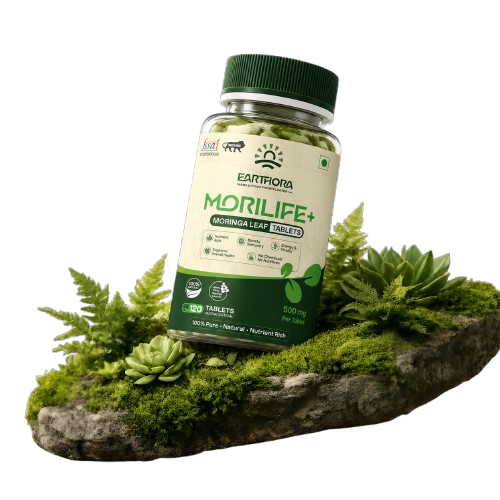
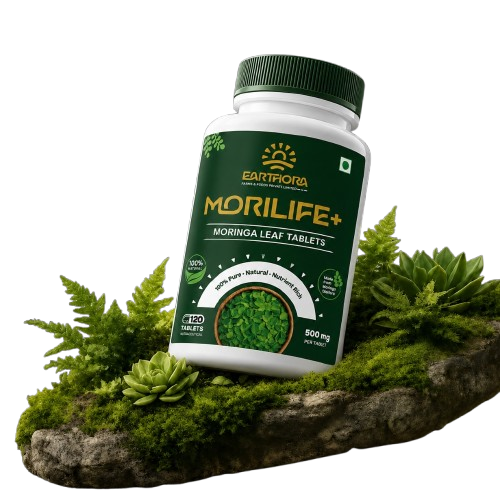
billing

diff --git a/supabase/functions/send-invoice/index.ts b/supabase/functions/send-invoice/index.ts
@@ -1,0 +1,348 @@
+import { createClient } from "https://esm.sh/@supabase/supabase-js@2";
+
+declare const Deno: {
+  env: { get(key: string): string | undefined };
+  serve(handler: (req: Request) => Response | Promise<Response>): void;
+};
+
+const corsHeaders = {
+  "Access-Control-Allow-Origin": "*",
+  "Access-Control-Allow-Methods": "GET, POST, PUT, DELETE, OPTIONS",
+  "Access-Control-Allow-Headers":
+    "authorization, x-client-info, apikey, content-type, x-admin-password",
+};
+
+function numberToWords(num: number): string {
+  const a = [
+    "", "One", "Two", "Three", "Four", "Five", "Six", "Seven", "Eight", "Nine", "Ten",
+    "Eleven", "Twelve", "Thirteen", "Fourteen", "Fifteen", "Sixteen", "Seventeen", "Eighteen", "Nineteen"
+  ];
+  const b = ["", "", "Twenty", "Thirty", "Forty", "Fifty", "Sixty", "Seventy", "Eighty", "Ninety"];
+
+  const value = Math.round(num);
+  if (value === 0) return "Zero";
+
+  function chunk(n: number): string {
+    if (n < 20) return a[n];
+    if (n < 100) return b[Math.floor(n / 10)] + (n % 10 ? " " + a[n % 10] : "");
+    return a[Math.floor(n / 100)] + " Hundred" + (n % 100 ? " and " + chunk(n % 100) : "");
+  }
+
+  const crores = Math.floor(value / 10000000);
+  let rem = value % 10000000;
+  const lakhs = Math.floor(rem / 100000);
+  rem %= 100000;
+  const thousands = Math.floor(rem / 1000);
+  rem %= 1000;
+  const hundreds = Math.floor(rem / 100);
+  const remaining = rem % 100;
+
+  let str = "";
+  if (crores) str += chunk(crores) + " Crore ";
+  if (lakhs) str += chunk(lakhs) + " Lakh ";
+  if (thousands) str += chunk(thousands) + " Thousand ";
+  if (hundreds) str += chunk(hundreds) + " Hundred ";
+  if (remaining) {
+    if (str !== "") str += "and ";
+    str += chunk(remaining);
+  }
+  return str.trim() + " Rupees Only";
+}
+
+Deno.serve(async (req: Request) => {
+  if (req.method === "OPTIONS") {
+    return new Response("ok", { headers: corsHeaders });
+  }
+
+  try {
+    const { orderId } = (await req.json()) as { orderId?: string };
+
+    if (!orderId) {
+      return new Response(
+        JSON.stringify({ ok: false, error: "Missing required field: orderId." }),
+        { status: 400, headers: { ...corsHeaders, "Content-Type": "application/json" } }
+      );
+    }
+
+    const resendApiKey = Deno.env.get("RESEND_API_KEY");
+    const supabaseUrl = Deno.env.get("SUPABASE_URL")!;
+    const supabaseServiceKey = Deno.env.get("SUPABASE_SERVICE_ROLE_KEY")!;
+
+    if (!resendApiKey) {
+      console.warn("[send-invoice] RESEND_API_KEY secret is not configured in Supabase secrets.");
+      return new Response(
+        JSON.stringify({ ok: true, warning: "RESEND_API_KEY secret not configured." }),
+        { status: 200, headers: { ...corsHeaders, "Content-Type": "application/json" } }
+      );
+    }
+
+    const supabase = createClient(supabaseUrl, supabaseServiceKey);
+
+    // 1. Fetch Order Details
+    const { data: order, error: orderErr } = await supabase
+      .from("orders")
+      .select("*")
+      .eq("id", orderId)
+      .single();
+
+    if (orderErr || !order) {
+      console.error("[send-invoice] Order query error:", orderErr);
+      return new Response(
+        JSON.stringify({ ok: false, error: `Order not found: ${orderId}` }),
+        { status: 404, headers: { ...corsHeaders, "Content-Type": "application/json" } }
+      );
+    }
+
+    // 2. Fetch Order Items with Product details
+    const { data: orderItems, error: itemsErr } = await supabase
+      .from("order_items")
+      .select("*, products(*)")
+      .eq("order_id", orderId);
+
+    if (itemsErr || !orderItems || orderItems.length === 0) {
+      console.error("[send-invoice] Order Items query error:", itemsErr);
+      return new Response(
+        JSON.stringify({ ok: false, error: "Order items not found." }),
+        { status: 404, headers: { ...corsHeaders, "Content-Type": "application/json" } }
+      );
+    }
+
+    // 3. Fetch Payment details
+    const { data: payment } = await supabase
+      .from("Payments")
+      .select("*")
+      .eq("payment_order_id", orderId)
+      .single();
+
+    // Extract address details
+    const shipping = order.shipping_address || {};
+    const recipientEmail = shipping.email || order.user_id;
+    const recipientName = shipping.name || "Customer";
+    const recipientPhone = shipping.phone || "";
+    const fullAddress = `${shipping.address || ""}, ${shipping.city || ""}, ${shipping.state || ""} - ${shipping.zip || ""}, ${shipping.country || ""}`;
+
+    const invoiceDate = new Date(order.created_at).toLocaleDateString("en-IN", {
+      day: "2-digit",
+      month: "2-digit",
+      year: "numeric",
+    });
+
+    const paymentMethod = payment?.payment_method || "Online Payment";
+    const transactionId = payment?.payment_transaction_id || "N/A";
+    const totalAmount = Number(order.total_amount);
+
+    // Calculate line items for GST standard layout (5% Moringa Tax Rate)
+    const HSN_CODE = "12119029";
+    let subtotalTaxable = 0;
+    let totalCgst = 0;
+    let totalSgst = 0;
+
+    const itemsHtmlList = orderItems.map((item: any, idx: number) => {
+      const productName = item.products?.name || "Organic Moringa Supplement";
+      const quantity = Number(item.quantity);
+      const lineTotal = Number(item.total_price);
+      
+      const unitPrice = Number(item.unit_price);
+      const taxableUnitPrice = unitPrice / 1.05;
+      const taxableLineTotal = lineTotal / 1.05;
+      const lineGst = lineTotal - taxableLineTotal;
+      const lineCgst = lineGst / 2;
+      const lineSgst = lineGst / 2;
+
+      subtotalTaxable += taxableLineTotal;
+      totalCgst += lineCgst;
+      totalSgst += lineSgst;
+
+      return `
+        <tr style="border-bottom: 1px solid #e8e6df;">
+          <td style="padding: 12px 8px; font-size: 13px; text-align: center; color: #444;">${idx + 1}</td>
+          <td style="padding: 12px 8px; font-size: 13px; color: #222; font-weight: 500;">
+            ${productName}
+          </td>
+          <td style="padding: 12px 8px; font-size: 13px; text-align: center; color: #444;">${HSN_CODE}</td>
+          <td style="padding: 12px 8px; font-size: 13px; text-align: center; color: #222; font-weight: 600;">${quantity}</td>
+          <td style="padding: 12px 8px; font-size: 13px; text-align: right; color: #444;">₹${taxableUnitPrice.toFixed(2)}</td>
+          <td style="padding: 12px 8px; font-size: 13px; text-align: right; color: #444;">₹${taxableLineTotal.toFixed(2)}</td>
+          <td style="padding: 12px 8px; font-size: 12px; text-align: center; color: #666;">
+            2.5% CGST (₹${lineCgst.toFixed(2)})<br/>
+            2.5% SGST (₹${lineSgst.toFixed(2)})
+          </td>
+          <td style="padding: 12px 8px; font-size: 13px; text-align: right; color: #222; font-weight: 600;">₹${lineTotal.toFixed(2)}</td>
+        </tr>
+      `;
+    }).join("");
+
+    const grandTotalWords = numberToWords(totalAmount);
+
+    const emailHtml = `
+      <div style="font-family: Arial, sans-serif; max-width: 750px; margin: 0 auto; padding: 24px; background: #FAF9F5; color: #15271D; border-radius: 24px; border: 1px solid #CFDCD3;">
+        
+        <!-- Header / Banner -->
+        <table style="width: 100%; border-collapse: collapse; margin-bottom: 24px;">
+          <tr>
+            <td>
+              <h1 style="margin: 0; font-size: 26px; color: #26593B; letter-spacing: -0.5px; font-family: Georgia, serif;">Earthora Farms</h1>
+              <p style="margin: 4px 0 0; font-size: 12px; color: #DC9950; font-weight: bold; letter-spacing: 1px; text-transform: uppercase;">Pure. Potent. Alive.</p>
+            </td>
+            <td style="text-align: right;">
+              <span style="background: #26593B; color: #FAF8F3; padding: 6px 16px; border-radius: 20px; font-size: 11px; font-weight: bold; text-transform: uppercase; letter-spacing: 0.5px;">Tax Invoice</span>
+              <p style="margin: 8px 0 0; font-size: 13px; color: #26593B; font-weight: 600;">Invoice #: INV-${orderId.substring(0, 8).toUpperCase()}</p>
+            </td>
+          </tr>
+        </table>
+
+        <!-- Invoice Meta Details -->
+        <table style="width: 100%; border-collapse: collapse; background: #ffffff; border-radius: 16px; border: 1px solid #E1E8E3; margin-bottom: 24px; padding: 16px;">
+          <tr>
+            <td style="padding: 16px; width: 50%; vertical-align: top; border-right: 1px solid #E1E8E3;">
+              <h3 style="margin: 0 0 8px; font-size: 12px; text-transform: uppercase; color: #888; letter-spacing: 0.5px;">Order Information</h3>
+              <p style="margin: 0 0 6px; font-size: 13px; color: #222;"><strong>Order ID:</strong> ${orderId}</p>
+              <p style="margin: 0 0 6px; font-size: 13px; color: #222;"><strong>Date:</strong> ${invoiceDate}</p>
+              <p style="margin: 0 0 6px; font-size: 13px; color: #222;"><strong>Payment Method:</strong> ${paymentMethod}</p>
+              <p style="margin: 0; font-size: 13px; color: #222;"><strong>Transaction ID:</strong> <span style="font-family: monospace; font-size: 12px; color: #555;">${transactionId}</span></p>
+            </td>
+            <td style="padding: 16px; width: 50%; vertical-align: top;">
+              <h3 style="margin: 0 0 8px; font-size: 12px; text-transform: uppercase; color: #888; letter-spacing: 0.5px;">Payment Status</h3>
+              <div style="display: inline-block; background: #DCE7C5; color: #26593B; font-weight: bold; padding: 6px 14px; border-radius: 12px; font-size: 14px; margin-bottom: 8px; border: 1px solid #CFDCD3;">
+                ✓ PAID
+              </div>
+              <p style="margin: 0; font-size: 12px; color: #666; line-height: 1.4;">Thank you for your payment. Your order is confirmed and is being prepared for shipment from our farm.</p>
+            </td>
+          </tr>
+        </table>
+
+        <!-- Party Details -->
+        <table style="width: 100%; border-collapse: collapse; background: #ffffff; border-radius: 16px; border: 1px solid #E1E8E3; margin-bottom: 24px;">
+          <tr>
+            <!-- Supplier / From -->
+            <td style="padding: 16px; width: 50%; vertical-align: top; border-right: 1px solid #E1E8E3;">
+              <h3 style="margin: 0 0 10px; font-size: 12px; text-transform: uppercase; color: #888; letter-spacing: 0.5px;">Billed From (Supplier)</h3>
+              <p style="margin: 0 0 4px; font-size: 14px; font-weight: bold; color: #1b4332;">Earthora Farms Private Limited</p>
+              <p style="margin: 0 0 8px; font-size: 12px; color: #555; line-height: 1.4;">
+                12, Green Meadow Estate,<br/>
+                Botanical Garden Road, Ooty,<br/>
+                Tamil Nadu - 643001, India
+              </p>
+              <p style="margin: 0 0 4px; font-size: 12px; color: #444;"><strong>GSTIN:</strong> 33AAACE1234F1Z5 (Fictional)</p>
+              <p style="margin: 0; font-size: 12px; color: #444;"><strong>FSSAI Lic No:</strong> 12423999000123</p>
+            </td>
+            <!-- Customer / To -->
+            <td style="padding: 16px; width: 50%; vertical-align: top;">
+              <h3 style="margin: 0 0 10px; font-size: 12px; text-transform: uppercase; color: #888; letter-spacing: 0.5px;">Billed & Shipped To</h3>
+              <p style="margin: 0 0 4px; font-size: 14px; font-weight: bold; color: #222;">${recipientName}</p>
+              <p style="margin: 0 0 8px; font-size: 12px; color: #555; line-height: 1.4; white-space: pre-wrap;">${fullAddress}</p>
+              <p style="margin: 0 0 4px; font-size: 12px; color: #444;"><strong>Email:</strong> ${recipientEmail}</p>
+              <p style="margin: 0; font-size: 12px; color: #444;"><strong>Phone:</strong> ${recipientPhone}</p>
+            </td>
+          </tr>
+        </table>
+
+        <!-- Itemized Table -->
+        <table style="width: 100%; border-collapse: collapse; background: #ffffff; border-radius: 16px; border: 1px solid #E1E8E3; overflow: hidden; margin-bottom: 24px;">
+          <thead>
+            <tr style="background: #26593B; color: #FAF8F3;">
+              <th style="padding: 12px 8px; font-size: 11px; text-transform: uppercase; text-align: center; font-weight: bold; width: 40px;">S.No</th>
+              <th style="padding: 12px 8px; font-size: 11px; text-transform: uppercase; text-align: left; font-weight: bold;">Description of Goods</th>
+              <th style="padding: 12px 8px; font-size: 11px; text-transform: uppercase; text-align: center; font-weight: bold; width: 80px;">HSN</th>
+              <th style="padding: 12px 8px; font-size: 11px; text-transform: uppercase; text-align: center; font-weight: bold; width: 50px;">Qty</th>
+              <th style="padding: 12px 8px; font-size: 11px; text-transform: uppercase; text-align: right; font-weight: bold; width: 90px;">Unit Price</th>
+              <th style="padding: 12px 8px; font-size: 11px; text-transform: uppercase; text-align: right; font-weight: bold; width: 100px;">Taxable Value</th>
+              <th style="padding: 12px 8px; font-size: 11px; text-transform: uppercase; text-align: center; font-weight: bold; width: 130px;">Taxes</th>
+              <th style="padding: 12px 8px; font-size: 11px; text-transform: uppercase; text-align: right; font-weight: bold; width: 100px;">Total</th>
+            </tr>
+          </thead>
+          <tbody>
+            ${itemsHtmlList}
+          </tbody>
+        </table>
+
+        <!-- Calculations Summary -->
+        <table style="width: 100%; border-collapse: collapse; margin-bottom: 24px;">
+          <tr>
+            <!-- Left Empty Column / Terms -->
+            <td style="width: 55%; vertical-align: top; padding: 12px;">
+              <h4 style="margin: 0 0 6px; font-size: 12px; color: #26593B; text-transform: uppercase;">Amount in Words</h4>
+              <p style="margin: 0 0 16px; font-size: 13px; font-style: italic; color: #555;">${grandTotalWords}</p>
+              
+              <div style="border-top: 1px solid #E1E8E3; padding-top: 12px;">
+                <p style="margin: 0; font-size: 10px; color: #888; line-height: 1.4;">
+                  <strong>Terms & Declarations:</strong> We declare that this invoice shows the actual price of the goods described and that all particulars are true and correct. Goods once sold cannot be returned unless damaged in transit.
+                </p>
+              </div>
+            </td>
+            <!-- Right calculations column -->
+            <td style="width: 45%; vertical-align: top; padding: 12px; background: #ffffff; border-radius: 16px; border: 1px solid #E1E8E3;">
+              <table style="width: 100%; border-collapse: collapse;">
+                <tr>
+                  <td style="padding: 6px 0; font-size: 13px; color: #555;">Total Taxable Value</td>
+                  <td style="padding: 6px 0; font-size: 13px; text-align: right; color: #222;">₹${subtotalTaxable.toFixed(2)}</td>
+                </tr>
+                <tr>
+                  <td style="padding: 6px 0; font-size: 13px; color: #555;">CGST Total (2.5%)</td>
+                  <td style="padding: 6px 0; font-size: 13px; text-align: right; color: #222;">₹${totalCgst.toFixed(2)}</td>
+                </tr>
+                <tr>
+                  <td style="padding: 6px 0; font-size: 13px; color: #555;">SGST Total (2.5%)</td>
+                  <td style="padding: 6px 0; font-size: 13px; text-align: right; color: #222; border-bottom: 1px solid #E1E8E3;">₹${totalSgst.toFixed(2)}</td>
+                </tr>
+                <tr>
+                  <td style="padding: 10px 0 0; font-size: 16px; font-weight: bold; color: #26593B;">Grand Total</td>
+                  <td style="padding: 10px 0 0; font-size: 16px; font-weight: bold; text-align: right; color: #26593B;">₹${totalAmount.toFixed(2)}</td>
+                </tr>
+              </table>
+            </td>
+          </tr>
+        </table>
+
+        <!-- Signatory Sign-off Footer -->
+        <table style="width: 100%; border-collapse: collapse; margin-top: 16px; border-top: 1px dashed #CFDCD3; padding-top: 16px;">
+          <tr>
+            <td>
+              <p style="margin: 0; font-size: 11px; color: #888;">For customer support queries, email <a href="mailto:support@earthorafarms.com" style="color: #26593B; text-decoration: none;">support@earthorafarms.com</a></p>
+            </td>
+            <td style="text-align: right; vertical-align: bottom;">
+              <p style="margin: 0 0 4px; font-size: 12px; font-weight: bold; color: #26593B;">Earthora Farms Pvt Ltd</p>
+              <p style="margin: 0; font-size: 11px; color: #888; font-style: italic;">Authorized Signatory</p>
+            </td>
+          </tr>
+        </table>
+
+      </div>
+    `;
+
+    // 4. Send Email via Resend
+    const resendRes = await fetch("https://api.resend.com/emails", {
+      method: "POST",
+      headers: {
+        Authorization: `Bearer ${resendApiKey}`,
+        "Content-Type": "application/json",
+      },
+      body: JSON.stringify({
+        from: "Earthora Farms <support@earthorafarms.com>",
+        to: [recipientEmail],
+        subject: `Your Tax Invoice & Bill of Supply for Order #${orderId.substring(0, 8).toUpperCase()}`,
+        html: emailHtml,
+      }),
+    });
+
+    if (!resendRes.ok) {
+      const errText = await resendRes.text();
+      console.error("[send-invoice] Resend API Error:", errText);
+      return new Response(
+        JSON.stringify({ ok: false, error: `Resend API Error: ${errText}` }),
+        { status: 500, headers: { ...corsHeaders, "Content-Type": "application/json" } }
+      );
+    }
+
+    return new Response(
+      JSON.stringify({ ok: true }),
+      { status: 200, headers: { ...corsHeaders, "Content-Type": "application/json" } }
+    );
+  } catch (err: any) {
+    console.error("[send-invoice] Uncaught Exception:", err);
+    return new Response(
+      JSON.stringify({ ok: false, error: err.message || "An unexpected error occurred." }),
+      { status: 500, headers: { ...corsHeaders, "Content-Type": "application/json" } }
+    );
+  }
+});

diff --git a/src/pages/checkout.tsx b/src/pages/checkout.tsx
@@ -170,11 +170,12 @@ export default function Checkout() {
           setCity((data.user_city as string) || "");
           setState((data.user_state as string) || "");
           setPostalCode((data.user_zip as string) || "");
-          setCountry((data.user_country as string) || "");
+          setCountry((data.user_country as string) || "India");
         } else {
           setEmail(emailAddr || "");
           setName(user?.user_metadata?.name || user?.user_metadata?.full_name || "");
           setPhone(user?.phone || "");
+          setCountry("India");
         }
       });
   }, [user, authLoading]);
@@ -382,6 +383,16 @@ export default function Checkout() {
             const txnId = response.razorpay_payment_id;
             const orderReferenceId = await saveOrderToDatabase("completed", txnId);
             setOrderSuccess({ order_number: orderReferenceId, method: "razorpay", total: totalAmount });
+
+            // Trigger invoice email sending asynchronously
+            try {
+              supabase.functions.invoke("send-invoice", {
+                body: { orderId: orderReferenceId },
+              });
+            } catch (emailErr) {
+              console.error("Error triggering invoice email:", emailErr);
+            }
+
             clearCart();
             toast({ title: "Payment successful!", description: `Order ID: ${orderReferenceId}` });
             resolve();

diff --git a/src/components/sections/Hero.tsx b/src/components/sections/Hero.tsx
@@ -1,7 +1,7 @@
 import { ArrowUpRight } from "lucide-react";
 import { Link } from "wouter";
 import terraHeroBg from "@assets/generated_images/terra_hero_bg.webp";
-import terraBottle from "@assets/generated_images/hero_bottle_new.png";
+import terraBottle from "@assets/generated_images/user_bottle.png";
 
 const BG_IMAGE_URL = terraHeroBg;
 const PRODUCT_BOTTLE_URL = terraBottle;

diff --git a/vite.config.ts b/vite.config.ts
@@ -26,7 +26,9 @@ export default defineConfig({
     emptyOutDir: true,
     sourcemap: false,
     cssCodeSplit: false,
-    modulePreload: false,
+    modulePreload: {
+      resolveDependencies: () => [],
+    },
     rollupOptions: {
       output: {
         manualChunks: {
